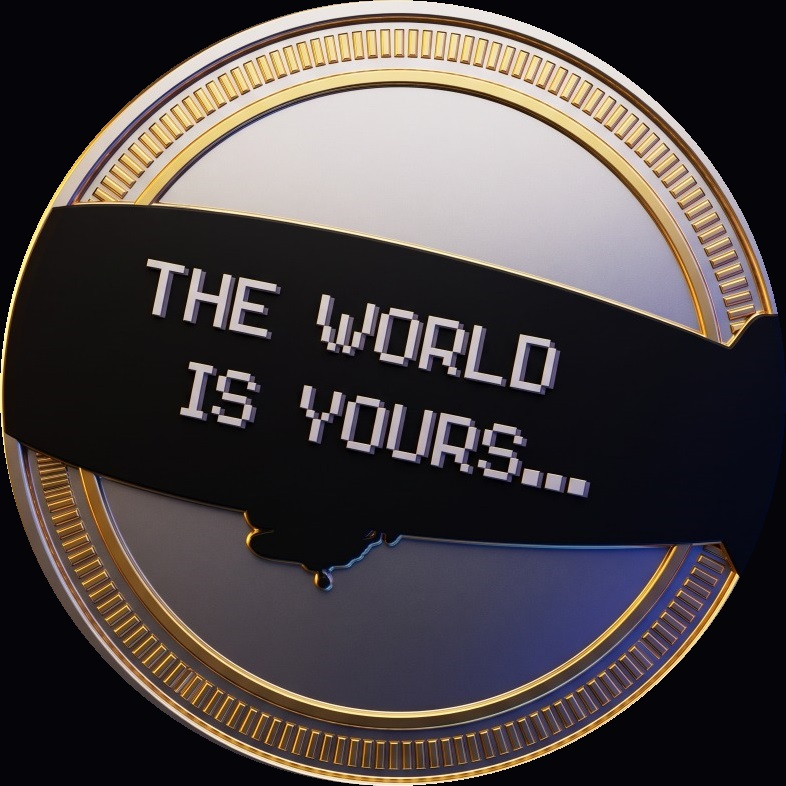
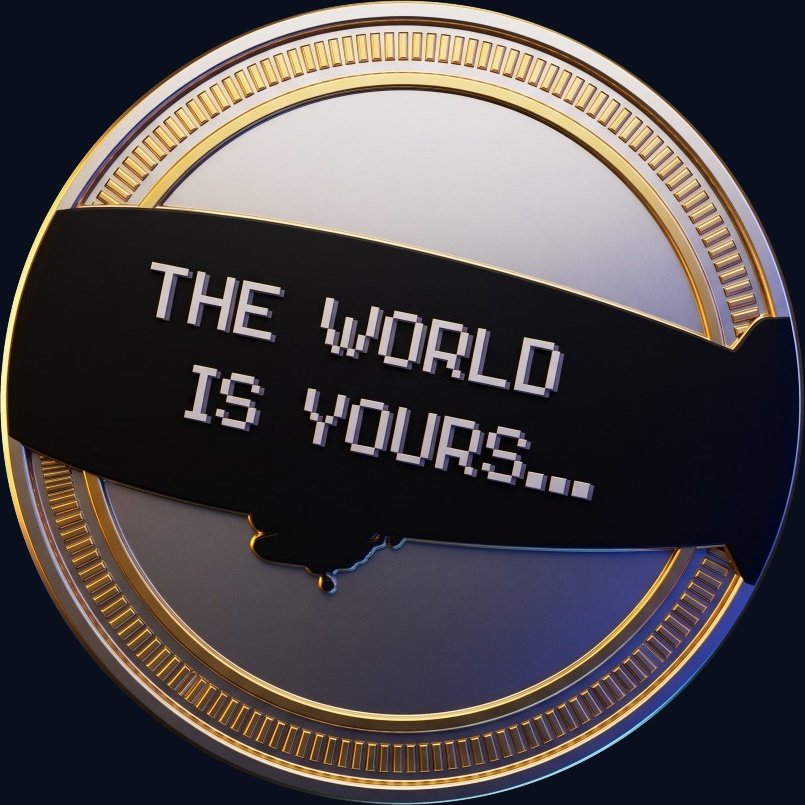
feat: vitrine carrossel de boas-vindas com ate 10 midias e assets redondos sem bordas azuis

diff --git a/src/routes/_authenticated/app.flows.$flowId_.simple.tsx b/src/routes/_authenticated/app.flows.$flowId_.simple.tsx
@@ -645,9 +645,12 @@ export function AdvancedFlowEditorPage() {
 
               {/* Upload de mídias direto do PC */}
               <div className="space-y-2">
-                <Label className="text-xs font-semibold text-zinc-300">
-                  Mídias Iniciais do Start (Fotos / Vídeos)
-                </Label>
+                <div className="flex items-center justify-between">
+                  <Label className="text-xs font-semibold text-zinc-300">
+                    Mídias Iniciais do Start (Fotos / Vídeos)
+                  </Label>
+                  <span className="text-[11px] text-zinc-500">Até 10 mídias</span>
+                </div>
                 <FlowMediaUploader
                   media={config.welcome.media}
                   mode={config.welcome.mediaMode}
@@ -657,8 +660,18 @@ export function AdvancedFlowEditorPage() {
                   onChange={(items) =>
                     setConfig({ ...config, welcome: { ...config.welcome, media: items } })
                   }
-                  maxItems={3}
+                  maxItems={10}
                 />
+                {config.welcome.media?.length > 2 ? (
+                  <div className="rounded-lg bg-cyan-500/10 border border-cyan-500/30 p-2 text-xs text-cyan-300 flex items-center gap-1.5">
+                    <span>✨</span>
+                    <span><strong>Modo Vitrine Ativo ({config.welcome.media.length} mídias):</strong> O bot enviará como carrossel agrupado onde o lead arrasta para o lado para ver as fotos.</span>
+                  </div>
+                ) : (
+                  <p className="text-[11px] text-zinc-500">
+                    💡 Caso adicione mais de 2 mídias (de 3 a 10 fotos/vídeos), o bot ativará automaticamente a vitrine deslizante. Se colocar até 2, mantém o envio normal.
+                  </p>
+                )}
               </div>
 
               {/* Bloco Inicial — Boas-vindas (Copy Única, não bilíngue) */}
@@ -936,6 +949,12 @@ export function AdvancedFlowEditorPage() {
                 {/* Controles Extras Estilo SharkBot: Mídia da Copy Principal, Mensagem Secundária, CTA, Redirects e Mini App */}
                 <div className="grid gap-4 pt-3 border-t border-white/5">
                   <div className="rounded-xl border border-white/10 bg-black/40 p-4 space-y-2">
+                    <div className="flex items-center justify-between">
+                      <Label className="text-xs font-semibold text-zinc-300">
+                        Mídias da Copy de Boas-vindas (Fotos / Vídeos)
+                      </Label>
+                      <span className="text-[11px] text-zinc-500">Até 10 mídias</span>
+                    </div>
                     <FlowMediaUploader
                       media={config.welcome.media}
                       mode={config.welcome.mediaMode}
@@ -951,8 +970,18 @@ export function AdvancedFlowEditorPage() {
                           welcome: { ...config.welcome, media: items },
                         })
                       }
-                      maxItems={5}
+                      maxItems={10}
                     />
+                    {config.welcome.media?.length > 2 ? (
+                      <div className="rounded-lg bg-cyan-500/10 border border-cyan-500/30 p-2 text-xs text-cyan-300 flex items-center gap-1.5">
+                        <span>✨</span>
+                        <span><strong>Modo Vitrine Ativo ({config.welcome.media.length} mídias):</strong> O bot enviará como carrossel agrupado onde o lead arrasta para o lado.</span>
+                      </div>
+                    ) : (
+                      <p className="text-[11px] text-zinc-500">
+                        💡 Mais de 2 mídias (3 a 10 fotos/vídeos) ativam automaticamente a vitrine deslizante. Até 2 mídias mantém o envio normal.
+                      </p>
+                    )}
                   </div>
                   {/* Mensagem Secundária */}
                   <div className="rounded-xl border border-white/10 bg-black/40 p-4 space-y-3">

diff --git a/src/routes/__root.tsx b/src/routes/__root.tsx
@@ -107,8 +107,8 @@ export const Route = createRootRouteWithContext<{ queryClient: QueryClient }>()(
       { name: "twitter:title", content: "CASH BOT — PIX & Pagamentos Internacionais no Telegram com a Menor Taxa do Mercado" },
       { property: "og:description", content: "Robôs de vendas automáticas no Telegram com PIX instantâneo e pagamentos internacionais (USD, EUR e GBP) com a menor taxa do mercado. O acesso sai na hora." },
       { name: "twitter:description", content: "Robôs de vendas automáticas no Telegram com PIX instantâneo e pagamentos internacionais (USD, EUR e GBP) com a menor taxa do mercado. O acesso sai na hora." },
-      { property: "og:image", content: "/cashbot-emblem.png?v=4" },
-      { name: "twitter:image", content: "/cashbot-emblem.png?v=4" },
+      { property: "og:image", content: "/cashbot-emblem.png?v=5" },
+      { name: "twitter:image", content: "/cashbot-emblem.png?v=5" },
       { name: "theme-color", content: "#050508" },
       { name: "apple-mobile-web-app-capable", content: "yes" },
       { name: "apple-mobile-web-app-status-bar-style", content: "black-translucent" },
@@ -116,7 +116,7 @@ export const Route = createRootRouteWithContext<{ queryClient: QueryClient }>()(
     ],
     links: [
       { rel: "manifest", href: "/manifest.json" },
-      { rel: "apple-touch-icon", href: "/cashbot-icon-192.png?v=4" },
+      { rel: "apple-touch-icon", href: "/cashbot-icon-192.png?v=5" },
       { rel: "stylesheet", href: appCss },
       { rel: "preconnect", href: "https://fonts.googleapis.com" },
       { rel: "preconnect", href: "https://fonts.gstatic.com", crossOrigin: "anonymous" },
@@ -124,7 +124,7 @@ export const Route = createRootRouteWithContext<{ queryClient: QueryClient }>()(
         rel: "stylesheet",
         href: "https://fonts.googleapis.com/css2?family=Inter+Tight:wght@400;500;600&family=Space+Grotesk:wght@500;600;700;800;900&family=JetBrains+Mono:wght@400;500;700&family=Press+Start+2P&family=Silkscreen:wght@400;700&display=swap",
       },
-      { rel: "icon", type: "image/png", href: "/favicon.png?v=4" },
+      { rel: "icon", type: "image/png", href: "/favicon.png?v=5" },
     ],
     scripts: [
       {

diff --git a/src/lib/telegram.server.ts b/src/lib/telegram.server.ts
@@ -812,8 +812,12 @@ export async function sendWelcomeMedia(
 ) {
   if (!welcomeMedia || welcomeMedia.length === 0) return;
 
-  if (mediaMode === "grouped" && welcomeMedia.length > 1) {
+  // Vitrine Carrossel automática quando houver mais de 2 mídias (3 a 10 fotos/vídeos), ou se agrupadas manualmente
+  const shouldGroup = welcomeMedia.length > 2 || (mediaMode === "grouped" && welcomeMedia.length > 1);
+
+  if (shouldGroup) {
     const mediaList = welcomeMedia
+      .slice(0, 10)
       .map((m) => ({
         type: (m.kind === "video" ? "video" : "photo") as "photo" | "video",
         url: resolveMediaTarget(m),
@@ -1002,7 +1006,29 @@ export async function handleTelegramStart(params: {
     }
   }
 
-  if (mediaList.length > 1) {
+  // Se houver mais de 2 mídias (de 3 a 10 fotos/vídeos): Vitrine Carrossel (sendMediaGroup)
+  // O lead arrasta para o lado no Telegram para navegar entre as fotos da vitrine
+  if (mediaList.length > 2) {
+    const showcaseList = mediaList
+      .slice(0, 10)
+      .map((m: any) => {
+        const target = resolveMediaTarget(m);
+        if (target) usedTargets.push({ item: m, target });
+        return {
+          type: (m.kind === "video" || m.type === "video" ? "video" : "photo") as "photo" | "video",
+          url: target,
+          caption: m.caption || "",
+        };
+      })
+      .filter((m) => Boolean(m.url));
+
+    if (showcaseList.length > 0) {
+      await sendMediaGroup(params.token, params.chatId, showcaseList).catch((err) => {
+        console.error("Erro ao enviar vitrine de boas-vindas:", err);
+      });
+    }
+  } else if (mediaList.length === 2) {
+    // Até duas mídias: mantém exatamente como hoje
     for (const m of mediaList) {
       const target = resolveMediaTarget(m);
       if (target) usedTargets.push({ item: m, target });

diff --git a/src/routes/index.tsx b/src/routes/index.tsx
@@ -37,8 +37,8 @@ export const Route = createFileRoute("/")({
         content:
           "Robôs de vendas automáticas no Telegram com PIX instantâneo e pagamentos internacionais (USD, EUR e GBP) com a menor taxa do mercado. O acesso sai na hora. The World Is Yours.",
       },
-      { property: "og:image", content: "/cashbot-emblem.png?v=4" },
-      { name: "twitter:image", content: "/cashbot-emblem.png?v=4" },
+      { property: "og:image", content: "/cashbot-emblem.png?v=5" },
+      { name: "twitter:image", content: "/cashbot-emblem.png?v=5" },
     ],
   }),
   component: CASHBOTLanding,
@@ -138,7 +138,7 @@ export function CASHBOTLanding() {
           <div className="flex items-center gap-8">
             <Link to="/" className="flex items-center gap-3 group">
               <img
-                src="/cashbot-emblem.png?v=4"
+                src="/cashbot-emblem.png?v=5"
                 alt="CASH BOT"
                 className="size-11 shrink-0 rounded-full object-cover drop-shadow-[0_0_12px_rgba(56,189,248,0.45)] transition group-hover:scale-105"
               />
@@ -291,7 +291,7 @@ export function CASHBOTLanding() {
           <div className="lg:col-span-5 relative flex justify-center items-center">
             <div className="absolute inset-0 bg-[#38BDF8]/25 rounded-full blur-3xl transform scale-90 pointer-events-none" />
             <img
-              src="/cashbot-emblem.png?v=4"
+              src="/cashbot-emblem.png?v=5"
               alt="CASH BOT — The World Is Yours"
               className="relative w-full max-w-md aspect-square rounded-full object-cover drop-shadow-[0_25px_60px_rgba(0,0,0,0.9)] transform hover:scale-105 transition duration-700"
             />

diff --git a/src/routes/auth.tsx b/src/routes/auth.tsx
@@ -220,7 +220,7 @@ function AuthPage() {
       <div className="w-full max-w-sm animate-in fade-in zoom-in-95 duration-300">
         <Link to="/" className="mb-8 flex flex-col items-center gap-3">
           <img
-            src="/cashbot-emblem.png?v=4"
+            src="/cashbot-emblem.png?v=5"
             alt="Logo CASH BOT"
             className="size-20 rounded-full object-cover drop-shadow-[0_0_20px_rgba(6,182,212,0.35)]"
           />
@@ -235,7 +235,7 @@ function AuthPage() {
             <div className="space-y-4 text-center">
               <div className="flex flex-col items-center gap-2">
                 <img
-                  src="/cashbot-emblem.png?v=4"
+                  src="/cashbot-emblem.png?v=5"
                   alt="CASH BOT"
                   className="size-14 rounded-full object-cover drop-shadow-[0_0_15px_rgba(6,182,212,0.4)]"
                 />

diff --git a/src/routes/checkout.tsx b/src/routes/checkout.tsx
@@ -33,7 +33,7 @@ function CheckoutPage() {
     <div className="min-h-screen bg-[#050508] text-white flex flex-col justify-center items-center p-4">
       <div className="w-full max-w-xl mb-4 text-center">
         <h1 className="text-2xl font-black tracking-tight text-white flex items-center justify-center gap-2.5">
-          <img src="/cashbot-emblem.png?v=4" alt="CASH BOT" className="size-9 rounded-full object-cover" />
+          <img src="/cashbot-emblem.png?v=5" alt="CASH BOT" className="size-9 rounded-full object-cover" />
           <span>CASH BOT</span>
           <span className="text-xs px-2 py-0.5 rounded-full bg-cyan-950 text-cyan-400 border border-cyan-800">
             STRIPE
